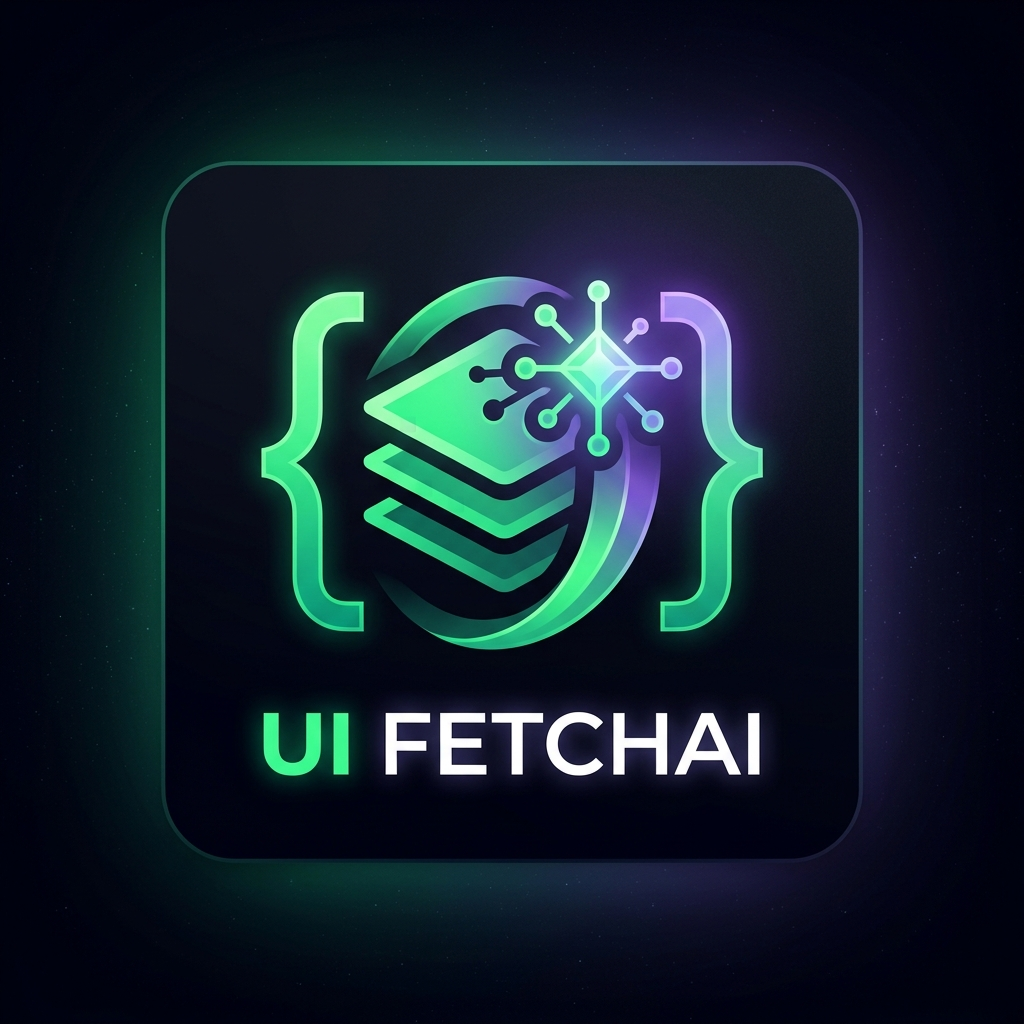
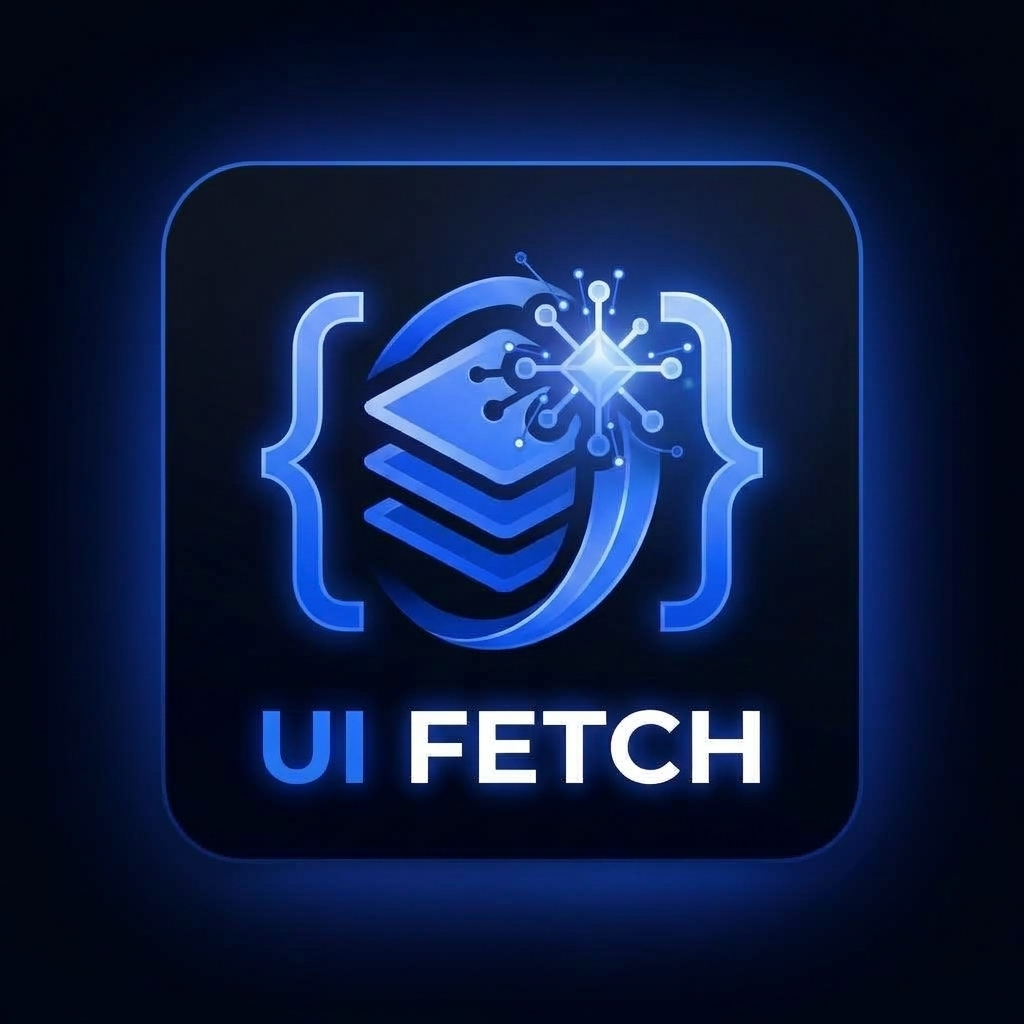
feat(figma-style): update UI Fetch plugin documentation, branding assets, and metadata
- Update figma-style manifest name and package version to 1.0.1 with new description
- Rewrite README.md in English detailing SVG & JSON CSS export for AI agents and frontend workflows
- Regenerate icon.jpg and thumbnail.jpg with unified royal blue brand identity
- Remove unused codegen handler from figma-style code.ts
- Clean up debug console output in figma-code FigmaAiText and bump to 0.1.4
- Add dots pagination type to CarouselPagination and refine InputCodeItem autocomplete type

diff --git a/packages/figma-code/src/classes/FigmaAiText.ts b/packages/figma-code/src/classes/FigmaAiText.ts
@@ -17,13 +17,7 @@ export class FigmaAiText {
   async make(): Promise<this> {
     this.ai.resetImages()
     this.makeImage()
-    console.warn('texts', text.replace('[texts]', this.initTexts()))
-
-    console.log(
-      'getImages',
-      this.ai.getImages(),
-      await this.ai.generate(text.replace('[texts]', this.initTexts()))
-    )
+    await this.ai.generate(text.replace('[texts]', this.initTexts()))
 
     return this
   }

diff --git a/packages/constructor/src/constructors/CarouselPagination/props.ts b/packages/constructor/src/constructors/CarouselPagination/props.ts
@@ -4,7 +4,7 @@ import type { TextPaginationPropsInclude } from '../../types/textTypes'
 
 type CarouselPaginationPropsToken = {
   // :type [!] System label / Системная метка
-  type?: 'bullets' | 'lines' | 'fraction' | 'progressbar'
+  type?: 'bullets' | 'dots' | 'lines' | 'fraction' | 'progressbar'
   vertical?: boolean
   dynamic?: boolean
   // :type [!] System label / Системная метка

diff --git a/packages/constructor/src/constructors/InputCodeItem/props.ts b/packages/constructor/src/constructors/InputCodeItem/props.ts
@@ -23,7 +23,7 @@ export type InputCodeItemPropsBasic = TextSymbolPropsInclude
     index?: NumberOrString
 
     /** Autocomplete mode / Режим автозаполнения */
-    autocomplete?: AutoFill
+    autocomplete?: AutoFillBase
 
     /** RegExp for input verification / Регулярное выражение для проверки ввода */
     match?: RegExp

diff --git a/packages/figma-style/src/code.ts b/packages/figma-style/src/code.ts
@@ -12,15 +12,4 @@ switch (figma.mode) {
 
     figma.showUI(__html__)
     break
-  case 'codegen':
-    figma.codegen.on('generate', async () => {
-      return [
-        {
-          title: 'Test generate',
-          language: 'PLAINTEXT',
-          code: 'code test'
-        }
-      ]
-    })
-    break
 }

diff --git a/packages/figma-style/README.md b/packages/figma-style/README.md
@@ -1,1 +1,34 @@
-# @dxtmisha/figma-style
+# UI Fetch — Style & Spec Exporter
+
+This plugin performs only one task: exports the selected design as **SVG** and **JSON** with all computed styles as **CSS**, specifically tailored for **AI agents** (AI assistants, LLMs, and code generators).
+
+---
+
+### What is Exported
+
+1. **SVG (`{id}__preview.svg`)**:
+   - Every layer and element retains its corresponding Figma node `id`.
+
+2. **JSON (`{id}__style.json`)**:
+   - A document object tree that mirrors the exact structure and hierarchy of the SVG elements.
+   - Each node is mapped by its `id` to all of its computed CSS styles (dimensions, padding, typography, colors, border radii, shadows, flex/grid properties).
+   - Contains styles for both the parent container (`styles`) and all nested child elements (`childrenStyles`).
+
+Thanks to matching `id`s across SVG and JSON, you get a 1:1 pairing: accurate vector visuals + full CSS specification for every element.
+
+---
+
+### How It Works
+
+1. **Select design**: Select any card, frame, section, or fragment on the Figma canvas (one or multiple elements).
+2. **Review selection**: The plugin automatically displays the preview, names, and IDs of selected items.
+3. **Click "Download"**: The plugin bundles the data and downloads a ZIP archive (`layout-*.zip`), containing for each selected element:
+   - `{id}__preview.svg`
+   - `{id}__style.json`
+
+---
+
+### Use Cases
+
+- **For AI Agents (Claude, ChatGPT, Cursor, Antigravity)**: Pass the SVG and JSON to the model — AI gets the exact structure and all actual CSS styles without hallucinations for pixel-perfect code generation in Vue, React, Svelte, or HTML/CSS.
+- **Plugin for Frontend Developers**: The exported data is designed specifically for frontend workflows — vector SVG with element IDs and computed CSS styles in JSON, immediately ready for UI component authoring and layout.
